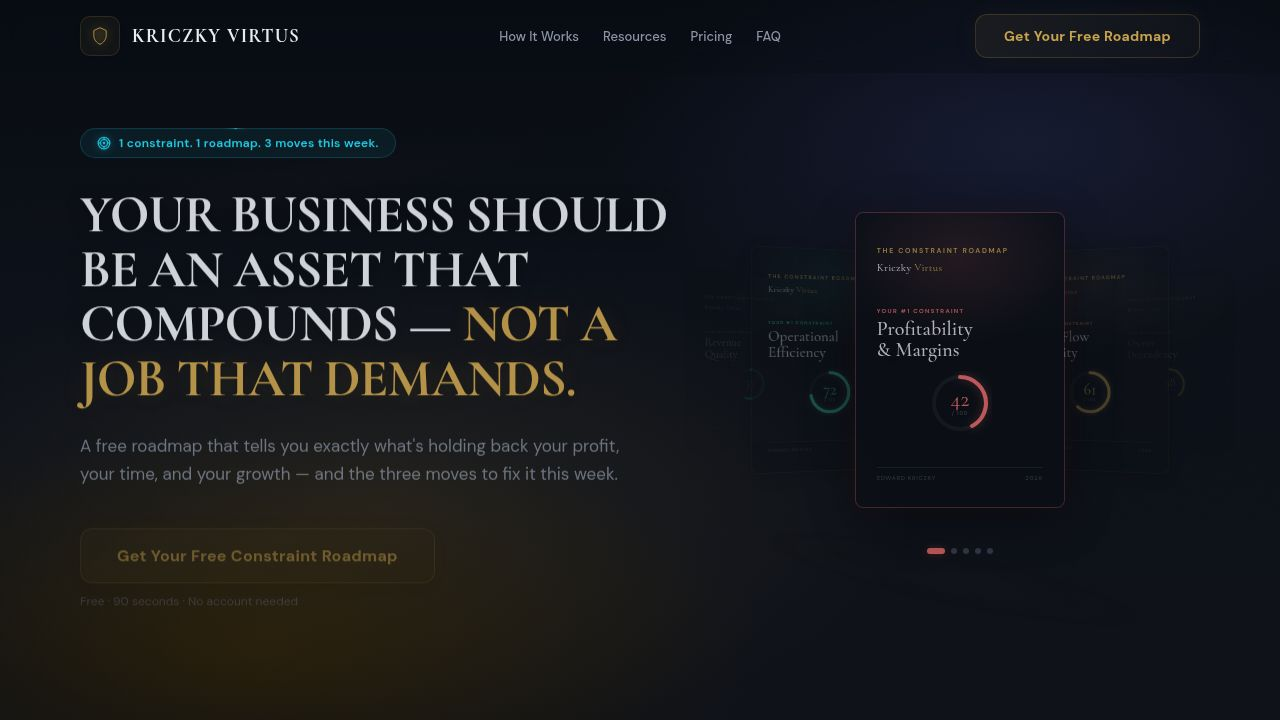
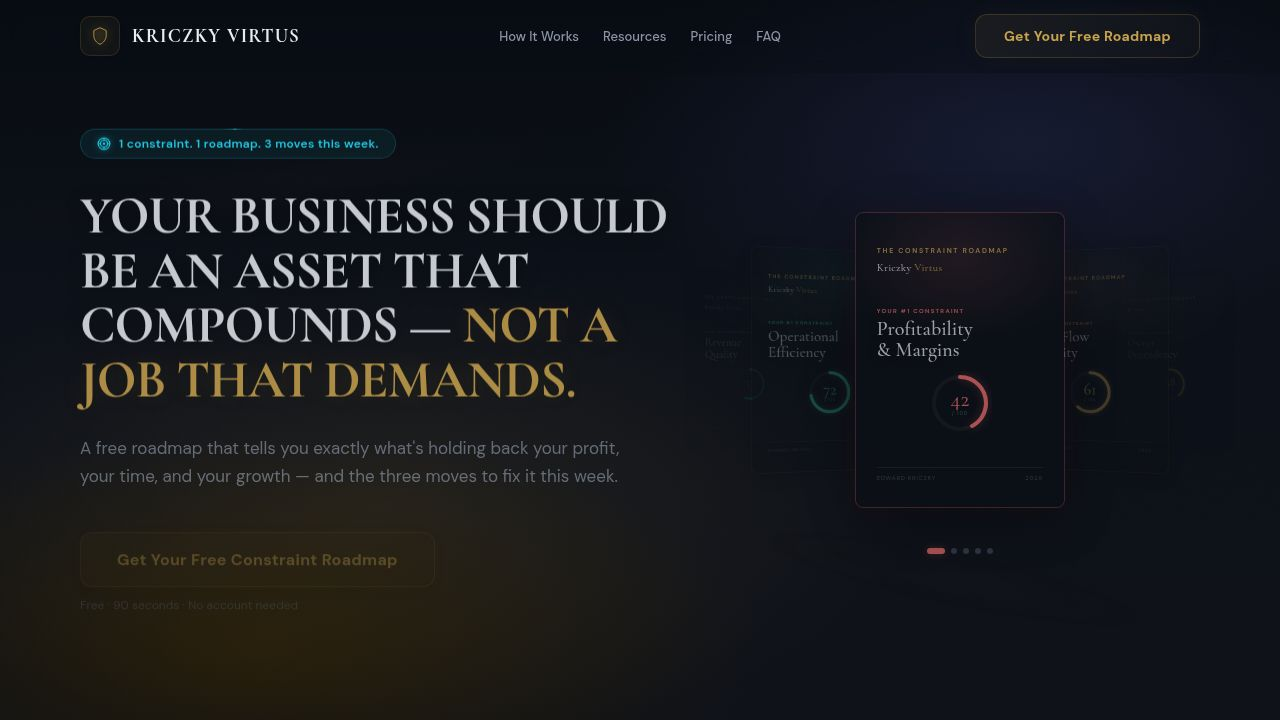
Update the email gate wording and add a legal disclosure for multiple tools
Modify the call-to-action button text, adjust the privacy statement, and append a consent disclosure to the email gate component for several tools.

Replit-Commit-Author: Agent
Replit-Commit-Session-Id: c2420ee8-0695-4085-aee3-7abd654feda2
Replit-Commit-Checkpoint-Type: full_checkpoint
Replit-Commit-Event-Id: a6df5703-1b67-444f-83d3-b31363beb195
Replit-Commit-Screenshot-Url: https://storage.googleapis.com/screenshot-production-us-central1/06d361fd-2302-490d-9152-d66aa7f5c9d5/c2420ee8-0695-4085-aee3-7abd654feda2/zZqJI07
Replit-Helium-Checkpoint-Created: true

diff --git a/artifacts/kriczky-virtus/src/tools/WMBW.jsx b/artifacts/kriczky-virtus/src/tools/WMBW.jsx
@@ -509,8 +509,6 @@ const EmailGate = ({ toolName, toolSlug, accentColor, scores, summary, onUnlock,
           Your answers are<br/><span style={{ color: accentColor }}>locked in.</span>
         </h2>
         <p style={{ fontFamily: "'DM Sans', sans-serif", fontSize: 15, color: C.text2, lineHeight: 1.6, margin: "0 0 8px" }}>Enter your name and email to see your personalized results, scores, and recommended next steps.</p>
-        <p style={{ fontFamily: "'DM Sans', sans-serif", fontSize: 12, color: C.text3, lineHeight: 1.5, margin: "0 0 28px", fontStyle: "italic" }}>Your data stays with you. We'll send you a copy of your results.</p>
-
         {/* Form card */}
         <div style={{ padding: "28px 24px", borderRadius: 18, background: "linear-gradient(145deg, rgba(255,255,255,0.05), rgba(255,255,255,0.02) 50%, rgba(255,255,255,0.04))", border: `1px solid ${accentColor}20`, borderTop: "1px solid rgba(255,255,255,0.12)", boxShadow: `0 8px 32px rgba(0,0,0,0.4), 0 0 60px ${accentColor}08`, position: "relative", overflow: "hidden" }}>
           <div style={{ position: "absolute", inset: 0, borderRadius: 18, pointerEvents: "none", background: "linear-gradient(135deg, rgba(255,255,255,0.08) 0%, rgba(255,255,255,0.02) 30%, transparent 50%, transparent 70%, rgba(255,255,255,0.03) 100%)" }}/>
@@ -529,11 +527,11 @@ const EmailGate = ({ toolName, toolSlug, accentColor, scores, summary, onUnlock,
               {/* Shimmer sweep */}
               <span style={{ position: "absolute", top: "-50%", left: "-50%", right: "-50%", bottom: "-50%", pointerEvents: "none", background: `linear-gradient(120deg, transparent 0%, transparent 40%, ${accentColor}12 48%, ${accentColor}20 50%, ${accentColor}12 52%, transparent 60%, transparent 100%)`, backgroundSize: "200% 200%", animation: "btnShimmer 6s ease-in-out infinite" }}/>
               <span style={{ position: "relative", zIndex: 1, display: "inline-flex", alignItems: "center", gap: 8 }}>
-                {sending ? "Unlocking your results..." : "See My Results"}
+                {sending ? "Unlocking your results..." : "See My Personalized Results"}
                 {!sending && <svg data-gate-arrow="" width="16" height="16" viewBox="0 0 24 24" fill="none" stroke={accentColor} strokeWidth="2.5" strokeLinecap="round" strokeLinejoin="round" style={{ opacity: 0, transition: "all 0.25s ease" }}><line x1="5" y1="12" x2="19" y2="12"/><polyline points="12 5 19 12 12 19"/></svg>}
               </span>
             </button>
-            <p style={{ fontFamily: "'DM Sans', sans-serif", fontSize: 11, color: C.text3, textAlign: "center", marginTop: 12 }}>No spam. No pitch. Just your personalized results.</p>
+            <p style={{ fontFamily: "'DM Sans', sans-serif", fontSize: 11, color: C.text3, textAlign: "center", marginTop: 12 }}>Your data stays with you. We will send you a copy of your results.</p>
           </div>
         </div>
 
@@ -547,6 +545,9 @@ const EmailGate = ({ toolName, toolSlug, accentColor, scores, summary, onUnlock,
             </div>
           ))}
         </div>
+        <p style={{ fontFamily: "'DM Sans', sans-serif", fontSize: 9, color: "#3D4654", lineHeight: 1.5, marginTop: 12, textAlign: "left" }}>
+          By providing your information you consent to Kriczky Virtus, LLC contacting you by phone, text, or email using automated telephone dialing systems and AI to the information provided, even if the phone number is present on a state or national Do Not Call List. We do not sell your personal information. By providing this information you agree to our <a href="https://www.kriczkyvirtus.com/privacy-policy" style={{ color: "#5A6474", textDecoration: "underline" }}>Privacy Policy</a> and <a href="https://www.kriczkyvirtus.com/terms-of-service" style={{ color: "#5A6474", textDecoration: "underline" }}>Terms of Service</a>.
+        </p>
       </div>
     </div>
   );

diff --git a/artifacts/kriczky-virtus/src/tools/BIB.jsx b/artifacts/kriczky-virtus/src/tools/BIB.jsx
@@ -585,7 +585,6 @@ const EmailGate = ({ toolName, toolSlug, accentColor, scores, summary, onUnlock,
         </div>
         <h2 style={{ fontFamily: "'Cormorant Garamond', serif", fontWeight: 700, fontSize: 32, color: "#E8ECF1", textTransform: "uppercase", margin: "0 0 10px", lineHeight: 1.1 }}>Your answers are<br/><span style={{ color: accentColor }}>locked in.</span></h2>
         <p style={{ fontFamily: "'DM Sans', sans-serif", fontSize: 15, color: "#8B95A5", lineHeight: 1.6, margin: "0 0 8px" }}>Enter your name and email to see your personalized results, scores, and recommended next steps.</p>
-        <p style={{ fontFamily: "'DM Sans', sans-serif", fontSize: 12, color: "#5A6474", lineHeight: 1.5, margin: "0 0 28px", fontStyle: "italic" }}>Your data stays with you. We will send you a copy of your results.</p>
         <div style={{ padding: "28px 24px", borderRadius: 18, background: "linear-gradient(145deg, rgba(255,255,255,0.05), rgba(255,255,255,0.02) 50%, rgba(255,255,255,0.04))", border: "1px solid " + accentColor + "20", borderTop: "1px solid rgba(255,255,255,0.12)", boxShadow: "0 8px 32px rgba(0,0,0,0.4), 0 0 60px " + accentColor + "08", position: "relative", overflow: "hidden" }}>
           <div style={{ position: "absolute", inset: 0, borderRadius: 18, pointerEvents: "none", background: "linear-gradient(135deg, rgba(255,255,255,0.08) 0%, rgba(255,255,255,0.02) 30%, transparent 50%, transparent 70%, rgba(255,255,255,0.03) 100%)" }}/>
           <div style={{ position: "relative", zIndex: 1 }}>
@@ -594,9 +593,9 @@ const EmailGate = ({ toolName, toolSlug, accentColor, scores, summary, onUnlock,
             {gError && <p style={{ fontFamily: "'DM Sans', sans-serif", fontSize: 12, color: "#F87171", margin: "0 0 12px", textAlign: "left" }}>{gError}</p>}
             <button onClick={handleGateSubmit} disabled={gSending} onMouseEnter={e => { if (!gSending) { e.currentTarget.style.boxShadow = "0 0 48px " + accentColor + "40, 0 4px 20px rgba(0,0,0,0.35)"; e.currentTarget.style.borderColor = accentColor + "80"; e.currentTarget.style.background = "linear-gradient(135deg, " + accentColor + "25, " + accentColor + "15)"; var a = e.currentTarget.querySelector("[data-gate-arrow]"); if(a){ a.style.opacity="1"; a.style.transform="translateX(3px)"; } } }} onMouseLeave={e => { e.currentTarget.style.boxShadow = "0 0 20px " + accentColor + "20, 0 4px 12px rgba(0,0,0,0.3)"; e.currentTarget.style.borderColor = accentColor + "50"; e.currentTarget.style.background = "linear-gradient(135deg, " + accentColor + "18, " + accentColor + "0a)"; var a = e.currentTarget.querySelector("[data-gate-arrow]"); if(a){ a.style.opacity="0"; a.style.transform="translateX(0)"; } }} style={{ width: "100%", padding: "16px 0", borderRadius: 12, border: "1.5px solid " + accentColor + "50", cursor: gSending ? "wait" : "pointer", fontFamily: "'DM Sans', sans-serif", fontWeight: 700, fontSize: 15, color: accentColor, background: "linear-gradient(135deg, " + accentColor + "18, " + accentColor + "0a)", boxShadow: "0 0 20px " + accentColor + "20, 0 4px 12px rgba(0,0,0,0.3)", position: "relative", overflow: "hidden", transition: "all 0.3s ease", opacity: gSending ? 0.7 : 1 }}>
               <span style={{ position: "absolute", top: "-50%", left: "-50%", right: "-50%", bottom: "-50%", pointerEvents: "none", background: "linear-gradient(120deg, transparent 0%, transparent 40%, " + accentColor + "12 48%, " + accentColor + "20 50%, " + accentColor + "12 52%, transparent 60%, transparent 100%)", backgroundSize: "200% 200%", animation: "btnShimmer 6s ease-in-out infinite" }}/>
-              <span style={{ position: "relative", zIndex: 1, display: "inline-flex", alignItems: "center", gap: 8 }}>{gSending ? "Unlocking your results..." : "See My Results"}{!gSending && <svg data-gate-arrow="" width="16" height="16" viewBox="0 0 24 24" fill="none" stroke={accentColor} strokeWidth="2.5" strokeLinecap="round" strokeLinejoin="round" style={{ opacity: 0, transition: "all 0.25s ease" }}><line x1="5" y1="12" x2="19" y2="12"/><polyline points="12 5 19 12 12 19"/></svg>}</span>
+              <span style={{ position: "relative", zIndex: 1, display: "inline-flex", alignItems: "center", gap: 8 }}>{gSending ? "Unlocking your results..." : "See My Personalized Results"}{!gSending && <svg data-gate-arrow="" width="16" height="16" viewBox="0 0 24 24" fill="none" stroke={accentColor} strokeWidth="2.5" strokeLinecap="round" strokeLinejoin="round" style={{ opacity: 0, transition: "all 0.25s ease" }}><line x1="5" y1="12" x2="19" y2="12"/><polyline points="12 5 19 12 12 19"/></svg>}</span>
             </button>
-            <p style={{ fontFamily: "'DM Sans', sans-serif", fontSize: 11, color: "#5A6474", textAlign: "center", marginTop: 12 }}>No spam. No pitch. Just your personalized results.</p>
+            <p style={{ fontFamily: "'DM Sans', sans-serif", fontSize: 11, color: "#5A6474", textAlign: "center", marginTop: 12 }}>Your data stays with you. We will send you a copy of your results.</p>
           </div>
         </div>
         <div style={{ marginTop: 24, padding: "16px 20px", borderRadius: 12, background: "rgba(255,255,255,0.02)", border: "1px solid rgba(255,255,255,0.06)", textAlign: "left" }}>
@@ -608,6 +607,9 @@ const EmailGate = ({ toolName, toolSlug, accentColor, scores, summary, onUnlock,
             </div>
           ))}
         </div>
+        <p style={{ fontFamily: "'DM Sans', sans-serif", fontSize: 9, color: "#3D4654", lineHeight: 1.5, marginTop: 12, textAlign: "left" }}>
+          By providing your information you consent to Kriczky Virtus, LLC contacting you by phone, text, or email using automated telephone dialing systems and AI to the information provided, even if the phone number is present on a state or national Do Not Call List. We do not sell your personal information. By providing this information you agree to our <a href="https://www.kriczkyvirtus.com/privacy-policy" style={{ color: "#5A6474", textDecoration: "underline" }}>Privacy Policy</a> and <a href="https://www.kriczkyvirtus.com/terms-of-service" style={{ color: "#5A6474", textDecoration: "underline" }}>Terms of Service</a>.
+        </p>
       </div>
     </div>
   );

diff --git a/artifacts/kriczky-virtus/src/tools/CustomerCapital.jsx b/artifacts/kriczky-virtus/src/tools/CustomerCapital.jsx
@@ -503,7 +503,6 @@ const EmailGate = ({ toolName, toolSlug, accentColor, scores, summary, onUnlock,
         </div>
         <h2 style={{ fontFamily: "'Cormorant Garamond', serif", fontWeight: 700, fontSize: 32, color: "#E8ECF1", textTransform: "uppercase", margin: "0 0 10px", lineHeight: 1.1 }}>Your answers are<br/><span style={{ color: accentColor }}>locked in.</span></h2>
         <p style={{ fontFamily: "'DM Sans', sans-serif", fontSize: 15, color: "#8B95A5", lineHeight: 1.6, margin: "0 0 8px" }}>Enter your name and email to see your personalized results, scores, and recommended next steps.</p>
-        <p style={{ fontFamily: "'DM Sans', sans-serif", fontSize: 12, color: "#5A6474", lineHeight: 1.5, margin: "0 0 28px", fontStyle: "italic" }}>Your data stays with you. We will send you a copy of your results.</p>
         <div style={{ padding: "28px 24px", borderRadius: 18, background: "linear-gradient(145deg, rgba(255,255,255,0.05), rgba(255,255,255,0.02) 50%, rgba(255,255,255,0.04))", border: "1px solid " + accentColor + "20", borderTop: "1px solid rgba(255,255,255,0.12)", boxShadow: "0 8px 32px rgba(0,0,0,0.4), 0 0 60px " + accentColor + "08", position: "relative", overflow: "hidden" }}>
           <div style={{ position: "absolute", inset: 0, borderRadius: 18, pointerEvents: "none", background: "linear-gradient(135deg, rgba(255,255,255,0.08) 0%, rgba(255,255,255,0.02) 30%, transparent 50%, transparent 70%, rgba(255,255,255,0.03) 100%)" }}/>
           <div style={{ position: "relative", zIndex: 1 }}>
@@ -512,9 +511,9 @@ const EmailGate = ({ toolName, toolSlug, accentColor, scores, summary, onUnlock,
             {gError && <p style={{ fontFamily: "'DM Sans', sans-serif", fontSize: 12, color: "#F87171", margin: "0 0 12px", textAlign: "left" }}>{gError}</p>}
             <button onClick={handleGateSubmit} disabled={gSending} onMouseEnter={e => { if (!gSending) { e.currentTarget.style.boxShadow = "0 0 48px " + accentColor + "40, 0 4px 20px rgba(0,0,0,0.35)"; e.currentTarget.style.borderColor = accentColor + "80"; e.currentTarget.style.background = "linear-gradient(135deg, " + accentColor + "25, " + accentColor + "15)"; var a = e.currentTarget.querySelector("[data-gate-arrow]"); if(a){ a.style.opacity="1"; a.style.transform="translateX(3px)"; } } }} onMouseLeave={e => { e.currentTarget.style.boxShadow = "0 0 20px " + accentColor + "20, 0 4px 12px rgba(0,0,0,0.3)"; e.currentTarget.style.borderColor = accentColor + "50"; e.currentTarget.style.background = "linear-gradient(135deg, " + accentColor + "18, " + accentColor + "0a)"; var a = e.currentTarget.querySelector("[data-gate-arrow]"); if(a){ a.style.opacity="0"; a.style.transform="translateX(0)"; } }} style={{ width: "100%", padding: "16px 0", borderRadius: 12, border: "1.5px solid " + accentColor + "50", cursor: gSending ? "wait" : "pointer", fontFamily: "'DM Sans', sans-serif", fontWeight: 700, fontSize: 15, color: accentColor, background: "linear-gradient(135deg, " + accentColor + "18, " + accentColor + "0a)", boxShadow: "0 0 20px " + accentColor + "20, 0 4px 12px rgba(0,0,0,0.3)", position: "relative", overflow: "hidden", transition: "all 0.3s ease", opacity: gSending ? 0.7 : 1 }}>
               <span style={{ position: "absolute", top: "-50%", left: "-50%", right: "-50%", bottom: "-50%", pointerEvents: "none", background: "linear-gradient(120deg, transparent 0%, transparent 40%, " + accentColor + "12 48%, " + accentColor + "20 50%, " + accentColor + "12 52%, transparent 60%, transparent 100%)", backgroundSize: "200% 200%", animation: "btnShimmer 6s ease-in-out infinite" }}/>
-              <span style={{ position: "relative", zIndex: 1, display: "inline-flex", alignItems: "center", gap: 8 }}>{gSending ? "Unlocking your results..." : "See My Results"}{!gSending && <svg data-gate-arrow="" width="16" height="16" viewBox="0 0 24 24" fill="none" stroke={accentColor} strokeWidth="2.5" strokeLinecap="round" strokeLinejoin="round" style={{ opacity: 0, transition: "all 0.25s ease" }}><line x1="5" y1="12" x2="19" y2="12"/><polyline points="12 5 19 12 12 19"/></svg>}</span>
+              <span style={{ position: "relative", zIndex: 1, display: "inline-flex", alignItems: "center", gap: 8 }}>{gSending ? "Unlocking your results..." : "See My Personalized Results"}{!gSending && <svg data-gate-arrow="" width="16" height="16" viewBox="0 0 24 24" fill="none" stroke={accentColor} strokeWidth="2.5" strokeLinecap="round" strokeLinejoin="round" style={{ opacity: 0, transition: "all 0.25s ease" }}><line x1="5" y1="12" x2="19" y2="12"/><polyline points="12 5 19 12 12 19"/></svg>}</span>
             </button>
-            <p style={{ fontFamily: "'DM Sans', sans-serif", fontSize: 11, color: "#5A6474", textAlign: "center", marginTop: 12 }}>No spam. No pitch. Just your personalized results.</p>
+            <p style={{ fontFamily: "'DM Sans', sans-serif", fontSize: 11, color: "#5A6474", textAlign: "center", marginTop: 12 }}>Your data stays with you. We will send you a copy of your results.</p>
           </div>
         </div>
         <div style={{ marginTop: 24, padding: "16px 20px", borderRadius: 12, background: "rgba(255,255,255,0.02)", border: "1px solid rgba(255,255,255,0.06)", textAlign: "left" }}>
@@ -526,6 +525,9 @@ const EmailGate = ({ toolName, toolSlug, accentColor, scores, summary, onUnlock,
             </div>
           ))}
         </div>
+        <p style={{ fontFamily: "'DM Sans', sans-serif", fontSize: 9, color: "#3D4654", lineHeight: 1.5, marginTop: 12, textAlign: "left" }}>
+          By providing your information you consent to Kriczky Virtus, LLC contacting you by phone, text, or email using automated telephone dialing systems and AI to the information provided, even if the phone number is present on a state or national Do Not Call List. We do not sell your personal information. By providing this information you agree to our <a href="https://www.kriczkyvirtus.com/privacy-policy" style={{ color: "#5A6474", textDecoration: "underline" }}>Privacy Policy</a> and <a href="https://www.kriczkyvirtus.com/terms-of-service" style={{ color: "#5A6474", textDecoration: "underline" }}>Terms of Service</a>.
+        </p>
       </div>
     </div>
   );

diff --git a/artifacts/kriczky-virtus/src/tools/HumanCapital.jsx b/artifacts/kriczky-virtus/src/tools/HumanCapital.jsx
@@ -503,7 +503,6 @@ const EmailGate = ({ toolName, toolSlug, accentColor, scores, summary, onUnlock,
         </div>
         <h2 style={{ fontFamily: "'Cormorant Garamond', serif", fontWeight: 700, fontSize: 32, color: "#E8ECF1", textTransform: "uppercase", margin: "0 0 10px", lineHeight: 1.1 }}>Your answers are<br/><span style={{ color: accentColor }}>locked in.</span></h2>
         <p style={{ fontFamily: "'DM Sans', sans-serif", fontSize: 15, color: "#8B95A5", lineHeight: 1.6, margin: "0 0 8px" }}>Enter your name and email to see your personalized results, scores, and recommended next steps.</p>
-        <p style={{ fontFamily: "'DM Sans', sans-serif", fontSize: 12, color: "#5A6474", lineHeight: 1.5, margin: "0 0 28px", fontStyle: "italic" }}>Your data stays with you. We will send you a copy of your results.</p>
         <div style={{ padding: "28px 24px", borderRadius: 18, background: "linear-gradient(145deg, rgba(255,255,255,0.05), rgba(255,255,255,0.02) 50%, rgba(255,255,255,0.04))", border: "1px solid " + accentColor + "20", borderTop: "1px solid rgba(255,255,255,0.12)", boxShadow: "0 8px 32px rgba(0,0,0,0.4), 0 0 60px " + accentColor + "08", position: "relative", overflow: "hidden" }}>
           <div style={{ position: "absolute", inset: 0, borderRadius: 18, pointerEvents: "none", background: "linear-gradient(135deg, rgba(255,255,255,0.08) 0%, rgba(255,255,255,0.02) 30%, transparent 50%, transparent 70%, rgba(255,255,255,0.03) 100%)" }}/>
           <div style={{ position: "relative", zIndex: 1 }}>
@@ -512,9 +511,9 @@ const EmailGate = ({ toolName, toolSlug, accentColor, scores, summary, onUnlock,
             {gError && <p style={{ fontFamily: "'DM Sans', sans-serif", fontSize: 12, color: "#F87171", margin: "0 0 12px", textAlign: "left" }}>{gError}</p>}
             <button onClick={handleGateSubmit} disabled={gSending} onMouseEnter={e => { if (!gSending) { e.currentTarget.style.boxShadow = "0 0 48px " + accentColor + "40, 0 4px 20px rgba(0,0,0,0.35)"; e.currentTarget.style.borderColor = accentColor + "80"; e.currentTarget.style.background = "linear-gradient(135deg, " + accentColor + "25, " + accentColor + "15)"; var a = e.currentTarget.querySelector("[data-gate-arrow]"); if(a){ a.style.opacity="1"; a.style.transform="translateX(3px)"; } } }} onMouseLeave={e => { e.currentTarget.style.boxShadow = "0 0 20px " + accentColor + "20, 0 4px 12px rgba(0,0,0,0.3)"; e.currentTarget.style.borderColor = accentColor + "50"; e.currentTarget.style.background = "linear-gradient(135deg, " + accentColor + "18, " + accentColor + "0a)"; var a = e.currentTarget.querySelector("[data-gate-arrow]"); if(a){ a.style.opacity="0"; a.style.transform="translateX(0)"; } }} style={{ width: "100%", padding: "16px 0", borderRadius: 12, border: "1.5px solid " + accentColor + "50", cursor: gSending ? "wait" : "pointer", fontFamily: "'DM Sans', sans-serif", fontWeight: 700, fontSize: 15, color: accentColor, background: "linear-gradient(135deg, " + accentColor + "18, " + accentColor + "0a)", boxShadow: "0 0 20px " + accentColor + "20, 0 4px 12px rgba(0,0,0,0.3)", position: "relative", overflow: "hidden", transition: "all 0.3s ease", opacity: gSending ? 0.7 : 1 }}>
               <span style={{ position: "absolute", top: "-50%", left: "-50%", right: "-50%", bottom: "-50%", pointerEvents: "none", background: "linear-gradient(120deg, transparent 0%, transparent 40%, " + accentColor + "12 48%, " + accentColor + "20 50%, " + accentColor + "12 52%, transparent 60%, transparent 100%)", backgroundSize: "200% 200%", animation: "btnShimmer 6s ease-in-out infinite" }}/>
-              <span style={{ position: "relative", zIndex: 1, display: "inline-flex", alignItems: "center", gap: 8 }}>{gSending ? "Unlocking your results..." : "See My Results"}{!gSending && <svg data-gate-arrow="" width="16" height="16" viewBox="0 0 24 24" fill="none" stroke={accentColor} strokeWidth="2.5" strokeLinecap="round" strokeLinejoin="round" style={{ opacity: 0, transition: "all 0.25s ease" }}><line x1="5" y1="12" x2="19" y2="12"/><polyline points="12 5 19 12 12 19"/></svg>}</span>
+              <span style={{ position: "relative", zIndex: 1, display: "inline-flex", alignItems: "center", gap: 8 }}>{gSending ? "Unlocking your results..." : "See My Personalized Results"}{!gSending && <svg data-gate-arrow="" width="16" height="16" viewBox="0 0 24 24" fill="none" stroke={accentColor} strokeWidth="2.5" strokeLinecap="round" strokeLinejoin="round" style={{ opacity: 0, transition: "all 0.25s ease" }}><line x1="5" y1="12" x2="19" y2="12"/><polyline points="12 5 19 12 12 19"/></svg>}</span>
             </button>
-            <p style={{ fontFamily: "'DM Sans', sans-serif", fontSize: 11, color: "#5A6474", textAlign: "center", marginTop: 12 }}>No spam. No pitch. Just your personalized results.</p>
+            <p style={{ fontFamily: "'DM Sans', sans-serif", fontSize: 11, color: "#5A6474", textAlign: "center", marginTop: 12 }}>Your data stays with you. We will send you a copy of your results.</p>
           </div>
         </div>
         <div style={{ marginTop: 24, padding: "16px 20px", borderRadius: 12, background: "rgba(255,255,255,0.02)", border: "1px solid rgba(255,255,255,0.06)", textAlign: "left" }}>
@@ -526,6 +525,9 @@ const EmailGate = ({ toolName, toolSlug, accentColor, scores, summary, onUnlock,
             </div>
           ))}
         </div>
+        <p style={{ fontFamily: "'DM Sans', sans-serif", fontSize: 9, color: "#3D4654", lineHeight: 1.5, marginTop: 12, textAlign: "left" }}>
+          By providing your information you consent to Kriczky Virtus, LLC contacting you by phone, text, or email using automated telephone dialing systems and AI to the information provided, even if the phone number is present on a state or national Do Not Call List. We do not sell your personal information. By providing this information you agree to our <a href="https://www.kriczkyvirtus.com/privacy-policy" style={{ color: "#5A6474", textDecoration: "underline" }}>Privacy Policy</a> and <a href="https://www.kriczkyvirtus.com/terms-of-service" style={{ color: "#5A6474", textDecoration: "underline" }}>Terms of Service</a>.
+        </p>
       </div>
     </div>
   );

diff --git a/artifacts/kriczky-virtus/src/tools/StructuralCapital.jsx b/artifacts/kriczky-virtus/src/tools/StructuralCapital.jsx
@@ -499,7 +499,6 @@ const EmailGate = ({ toolName, toolSlug, accentColor, scores, summary, onUnlock,
         </div>
         <h2 style={{ fontFamily: "'Cormorant Garamond', serif", fontWeight: 700, fontSize: 32, color: "#E8ECF1", textTransform: "uppercase", margin: "0 0 10px", lineHeight: 1.1 }}>Your answers are<br/><span style={{ color: accentColor }}>locked in.</span></h2>
         <p style={{ fontFamily: "'DM Sans', sans-serif", fontSize: 15, color: "#8B95A5", lineHeight: 1.6, margin: "0 0 8px" }}>Enter your name and email to see your personalized results, scores, and recommended next steps.</p>
-        <p style={{ fontFamily: "'DM Sans', sans-serif", fontSize: 12, color: "#5A6474", lineHeight: 1.5, margin: "0 0 28px", fontStyle: "italic" }}>Your data stays with you. We will send you a copy of your results.</p>
         <div style={{ padding: "28px 24px", borderRadius: 18, background: "linear-gradient(145deg, rgba(255,255,255,0.05), rgba(255,255,255,0.02) 50%, rgba(255,255,255,0.04))", border: "1px solid " + accentColor + "20", borderTop: "1px solid rgba(255,255,255,0.12)", boxShadow: "0 8px 32px rgba(0,0,0,0.4), 0 0 60px " + accentColor + "08", position: "relative", overflow: "hidden" }}>
           <div style={{ position: "absolute", inset: 0, borderRadius: 18, pointerEvents: "none", background: "linear-gradient(135deg, rgba(255,255,255,0.08) 0%, rgba(255,255,255,0.02) 30%, transparent 50%, transparent 70%, rgba(255,255,255,0.03) 100%)" }}/>
           <div style={{ position: "relative", zIndex: 1 }}>
@@ -508,9 +507,9 @@ const EmailGate = ({ toolName, toolSlug, accentColor, scores, summary, onUnlock,
             {gError && <p style={{ fontFamily: "'DM Sans', sans-serif", fontSize: 12, color: "#F87171", margin: "0 0 12px", textAlign: "left" }}>{gError}</p>}
             <button onClick={handleGateSubmit} disabled={gSending} onMouseEnter={e => { if (!gSending) { e.currentTarget.style.boxShadow = "0 0 48px " + accentColor + "40, 0 4px 20px rgba(0,0,0,0.35)"; e.currentTarget.style.borderColor = accentColor + "80"; e.currentTarget.style.background = "linear-gradient(135deg, " + accentColor + "25, " + accentColor + "15)"; var a = e.currentTarget.querySelector("[data-gate-arrow]"); if(a){ a.style.opacity="1"; a.style.transform="translateX(3px)"; } } }} onMouseLeave={e => { e.currentTarget.style.boxShadow = "0 0 20px " + accentColor + "20, 0 4px 12px rgba(0,0,0,0.3)"; e.currentTarget.style.borderColor = accentColor + "50"; e.currentTarget.style.background = "linear-gradient(135deg, " + accentColor + "18, " + accentColor + "0a)"; var a = e.currentTarget.querySelector("[data-gate-arrow]"); if(a){ a.style.opacity="0"; a.style.transform="translateX(0)"; } }} style={{ width: "100%", padding: "16px 0", borderRadius: 12, border: "1.5px solid " + accentColor + "50", cursor: gSending ? "wait" : "pointer", fontFamily: "'DM Sans', sans-serif", fontWeight: 700, fontSize: 15, color: accentColor, background: "linear-gradient(135deg, " + accentColor + "18, " + accentColor + "0a)", boxShadow: "0 0 20px " + accentColor + "20, 0 4px 12px rgba(0,0,0,0.3)", position: "relative", overflow: "hidden", transition: "all 0.3s ease", opacity: gSending ? 0.7 : 1 }}>
               <span style={{ position: "absolute", top: "-50%", left: "-50%", right: "-50%", bottom: "-50%", pointerEvents: "none", background: "linear-gradient(120deg, transparent 0%, transparent 40%, " + accentColor + "12 48%, " + accentColor + "20 50%, " + accentColor + "12 52%, transparent 60%, transparent 100%)", backgroundSize: "200% 200%", animation: "btnShimmer 6s ease-in-out infinite" }}/>
-              <span style={{ position: "relative", zIndex: 1, display: "inline-flex", alignItems: "center", gap: 8 }}>{gSending ? "Unlocking your results..." : "See My Results"}{!gSending && <svg data-gate-arrow="" width="16" height="16" viewBox="0 0 24 24" fill="none" stroke={accentColor} strokeWidth="2.5" strokeLinecap="round" strokeLinejoin="round" style={{ opacity: 0, transition: "all 0.25s ease" }}><line x1="5" y1="12" x2="19" y2="12"/><polyline points="12 5 19 12 12 19"/></svg>}</span>
+              <span style={{ position: "relative", zIndex: 1, display: "inline-flex", alignItems: "center", gap: 8 }}>{gSending ? "Unlocking your results..." : "See My Personalized Results"}{!gSending && <svg data-gate-arrow="" width="16" height="16" viewBox="0 0 24 24" fill="none" stroke={accentColor} strokeWidth="2.5" strokeLinecap="round" strokeLinejoin="round" style={{ opacity: 0, transition: "all 0.25s ease" }}><line x1="5" y1="12" x2="19" y2="12"/><polyline points="12 5 19 12 12 19"/></svg>}</span>
             </button>
-            <p style={{ fontFamily: "'DM Sans', sans-serif", fontSize: 11, color: "#5A6474", textAlign: "center", marginTop: 12 }}>No spam. No pitch. Just your personalized results.</p>
+            <p style={{ fontFamily: "'DM Sans', sans-serif", fontSize: 11, color: "#5A6474", textAlign: "center", marginTop: 12 }}>Your data stays with you. We will send you a copy of your results.</p>
           </div>
         </div>
         <div style={{ marginTop: 24, padding: "16px 20px", borderRadius: 12, background: "rgba(255,255,255,0.02)", border: "1px solid rgba(255,255,255,0.06)", textAlign: "left" }}>
@@ -522,6 +521,9 @@ const EmailGate = ({ toolName, toolSlug, accentColor, scores, summary, onUnlock,
             </div>
           ))}
         </div>
+        <p style={{ fontFamily: "'DM Sans', sans-serif", fontSize: 9, color: "#3D4654", lineHeight: 1.5, marginTop: 12, textAlign: "left" }}>
+          By providing your information you consent to Kriczky Virtus, LLC contacting you by phone, text, or email using automated telephone dialing systems and AI to the information provided, even if the phone number is present on a state or national Do Not Call List. We do not sell your personal information. By providing this information you agree to our <a href="https://www.kriczkyvirtus.com/privacy-policy" style={{ color: "#5A6474", textDecoration: "underline" }}>Privacy Policy</a> and <a href="https://www.kriczkyvirtus.com/terms-of-service" style={{ color: "#5A6474", textDecoration: "underline" }}>Terms of Service</a>.
+        </p>
       </div>
     </div>
   );